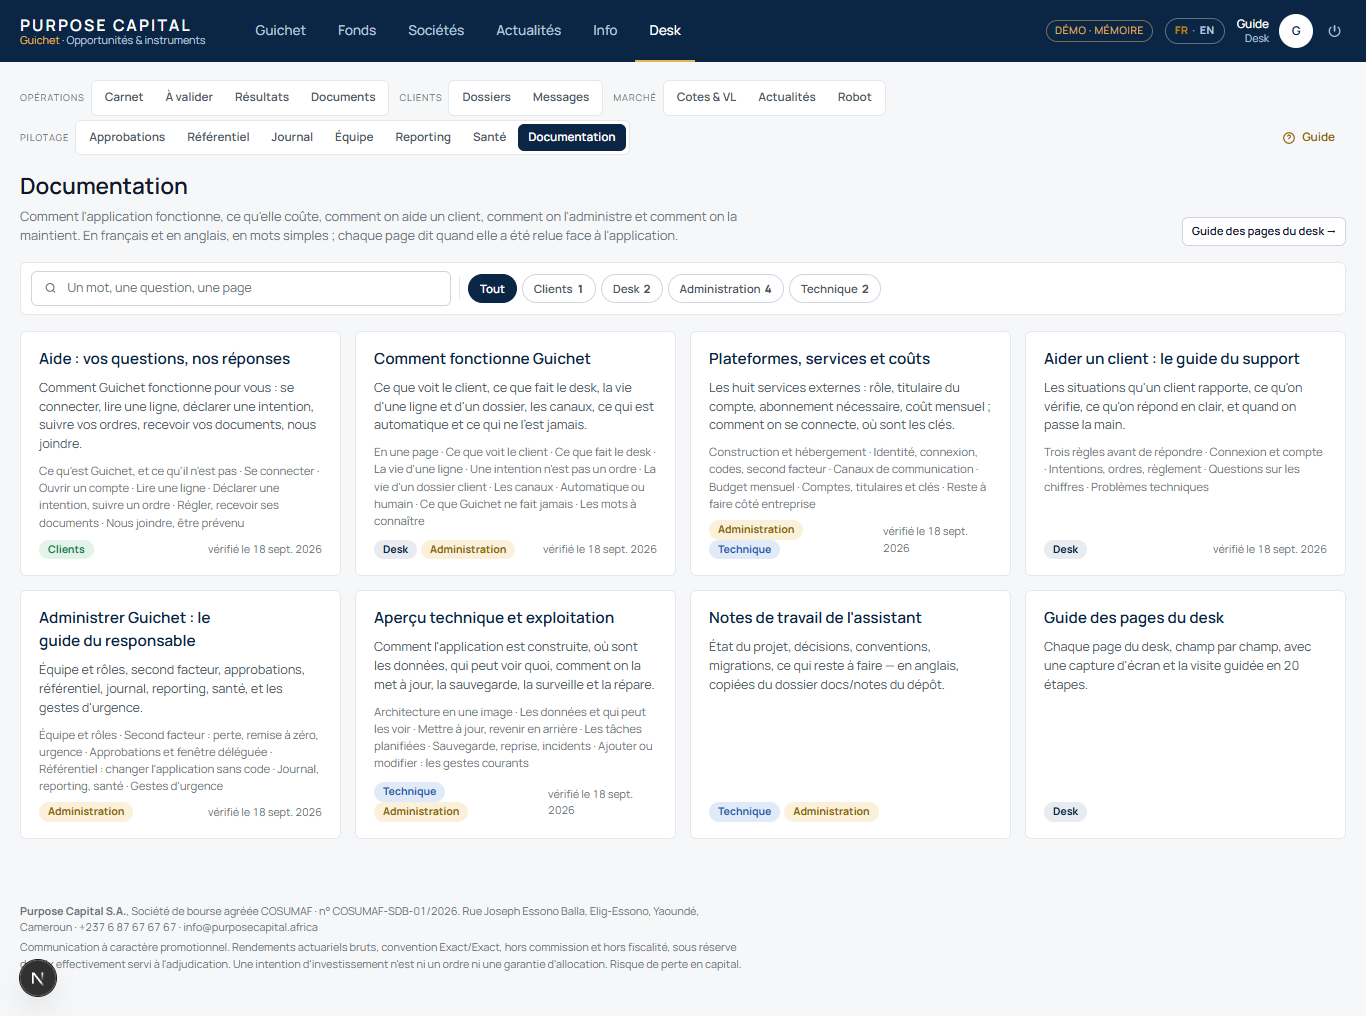
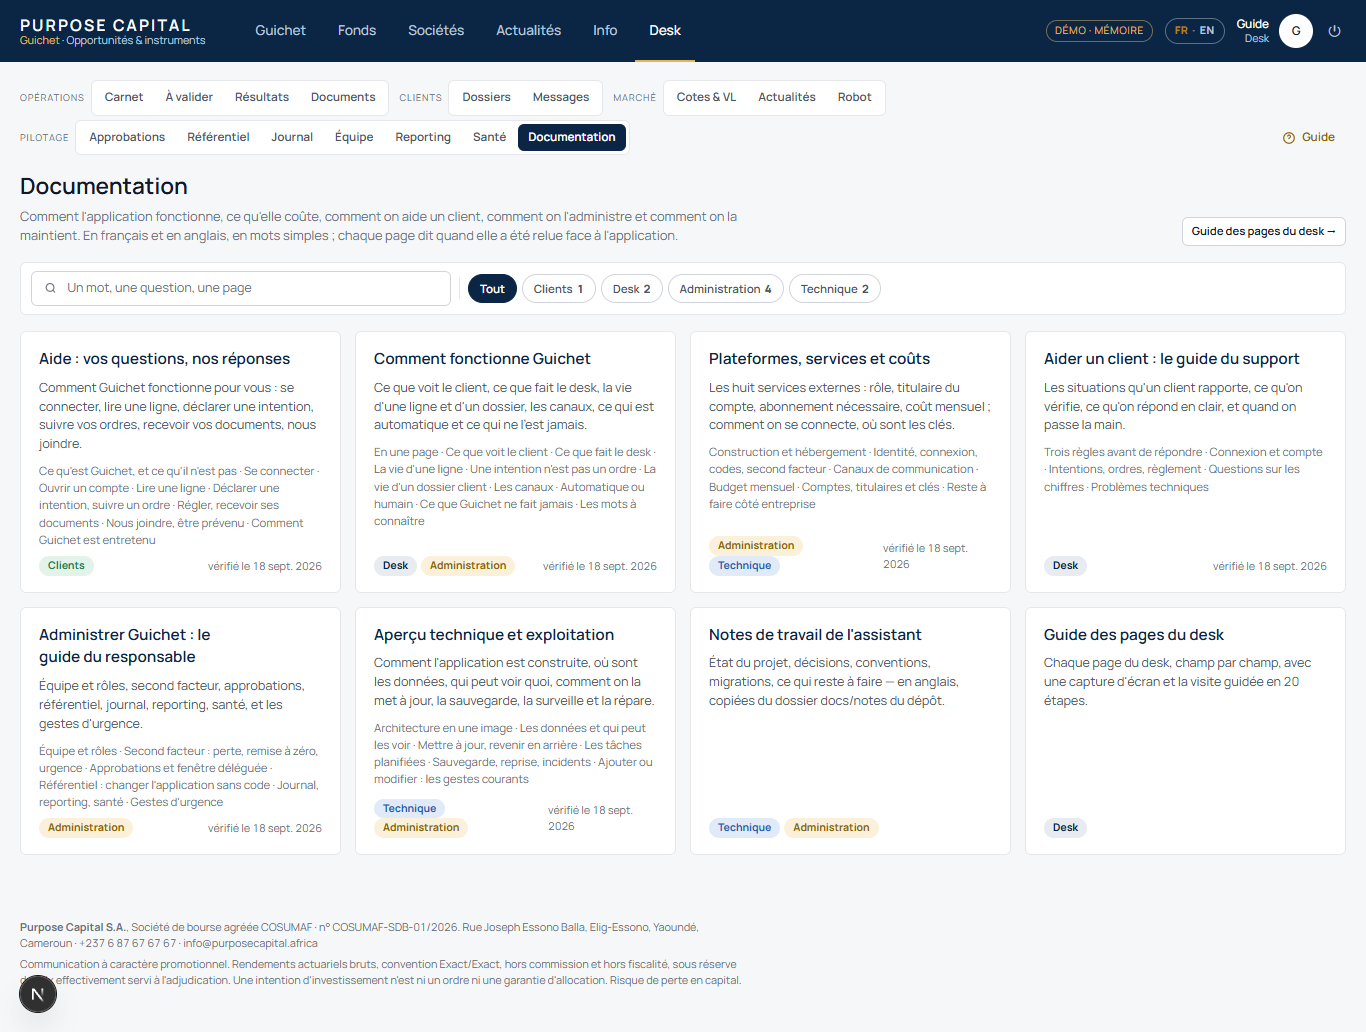
Aide client : « Comment Guichet est entretenu »
Un chapitre en clair — qui écrit, d'où viennent les cours, la fréquence des mises à jour, les pannes, les erreurs signalées, les données — sans nom de service ni procédure (le test de séparation le garantit) ; quatrième repère du parcours de l'aide ; captures régénérées.

diff --git a/src/data/docs/aide.ts b/src/data/docs/aide.ts
@@ -128,5 +128,24 @@ export const AIDE: DocPage = {
         },
       ],
     },
+    {
+      id: "entretien",
+      title: l("Comment Guichet est entretenu", "How Guichet is looked after"),
+      blocks: [
+        { type: "lead", text: l("Guichet est mis à jour souvent, par petites touches, sans interruption de service. Ce que vous voyez est relu par une personne avant d'être publié ; ce qui tourne tout seul est surveillé chaque matin.", "Guichet is updated often, in small steps, with no service interruption. What you see is read by a person before it is published; what runs by itself is checked every morning.") },
+        {
+          type: "table",
+          head: [l("Question", "Question"), l("Réponse", "Answer")],
+          rows: [
+            [l("Qui écrit ce que je lis ?", "Who writes what I read?"), l("Chaque ligne, chaque actualité et chaque chiffre publié passe par un membre du desk qui le vérifie et le signe ; l'explication des termes et les leçons sont tenues à jour par la même équipe. Rien n'est publié par une machine seule.", "Every line, every news item and every published figure goes through a desk member who checks and signs it; the explanation of terms and the lessons are kept up to date by the same team. Nothing is published by a machine on its own.")],
+            [l("D'où viennent les cours et les valeurs liquidatives ?", "Where do prices and net asset values come from?"), l("Du bulletin officiel de la BVMAC, lu chaque soir de bourse, et des sociétés de gestion pour les fonds. Un cours saisi à la main est signalé comme tel sur la fiche.", "From the BVMAC official bulletin, read every trading evening, and from the fund managers for funds. A manually entered price is flagged as such on the page.")],
+            [l("À quelle fréquence l'application change-t-elle ?", "How often does the app change?"), l("Plusieurs fois par semaine, par petites améliorations ; votre adresse, vos identifiants et vos documents ne changent pas. Quand un écran change, son guide et son aide changent avec lui.", "Several times a week, in small improvements; your address, your sign-in and your documents do not change. When a screen changes, its guide and its help change with it.")],
+            [l("Que se passe-t-il en cas de panne ?", "What happens if something breaks?"), l("L'équipe est prévenue automatiquement et revient à la version précédente en quelques minutes. Vos intentions, ordres et documents sont conservés et sauvegardés chaque jour ; aucun paiement ne passe par l'application, donc aucun paiement ne peut être perdu.", "The team is alerted automatically and returns to the previous version within minutes. Your intentions, orders and documents are kept and backed up every day; no payment goes through the app, so no payment can be lost.")],
+            [l("Un chiffre ou un texte vous semble faux ?", "A figure or a text looks wrong?"), l("Dites-le-nous sur WhatsApp ou par e-mail, en indiquant la page. Une erreur signalée est corrigée à la source, pour tout le monde, et la correction est tracée.", "Tell us on WhatsApp or by e-mail, naming the page. A reported error is fixed at the source, for everyone, and the fix is traced.")],
+            [l("Mes données sont-elles en sécurité ?", "Is my data safe?"), l("Vos données sont stockées chiffrées, en Europe, chez un hébergeur spécialisé ; chacun ne voit que ce qui le concerne ; le desk y accède avec un second facteur. Elles ne sont ni vendues ni partagées hors du cadre réglementaire.", "Your data is stored encrypted, in Europe, with a specialised host; everyone sees only what concerns them; the desk reaches it with a second factor. It is neither sold nor shared beyond the regulatory framework.")],
+          ],
+        },
+      ],
+    },
   ],
 };

diff --git a/src/i18n/en-docs.ts b/src/i18n/en-docs.ts
@@ -16,6 +16,8 @@ export const EN_DOCS: Record<string, string> = {
   "Rechercher dans la documentation": "Search the documentation",
   "toutes": "all",
   "Aide": "Help",
+  "Comment Guichet est entretenu": "How Guichet is looked after",
+  "Qui écrit ce que vous lisez, d'où viennent les cours, ce qui se passe en cas de panne, où sont vos données : en clair, sans jargon. Un doute sur un chiffre ? Dites-le-nous, il est corrigé pour tout le monde.": "Who writes what you read, where prices come from, what happens if something breaks, where your data is: plainly, without jargon. A doubt about a figure? Tell us, it is fixed for everyone.",
   "Notes de travail de l'assistant, lues depuis docs/notes": "The assistant's working notes, read from docs/notes",
   "Les notes de travail": "The working notes",
   "Ce que l'assistant garde entre ses sessions : l'état du projet, les décisions et leur raison, les conventions, les migrations appliquées, ce qui reste à faire. En anglais, lues depuis le dépôt (docs/notes) à chaque visite : un push les met à jour. Pour le quotidien, les autres pages ; pour comprendre pourquoi, celle-ci.": "What the assistant keeps between sessions: project state, decisions and their reasons, conventions, applied migrations, what is left. In English, read from the repository (docs/notes) at each visit: a push updates them. For the daily work, the other pages; to understand why, this one.",

diff --git a/src/app/info/aide/page.tsx b/src/app/info/aide/page.tsx
@@ -51,6 +51,7 @@ export default async function AidePage() {
             { target: "aide-page", title: t("Des réponses, pas des procédures"), text: t("Chaque chapitre répond aux questions que vous nous posez le plus : se connecter, ouvrir un compte, lire une ligne, déclarer une intention, régler, recevoir vos documents, nous joindre. Tout est écrit pour vous, en clair.") },
             { target: "aide-nav", title: t("Trouver vite"), text: t("À gauche, les chapitres de cette page ; en dessous, le glossaire, les leçons, le simulateur et le comparateur. La recherche de la page Info trouve aussi chaque question de cette aide.") },
             { target: "aide-contact", title: t("Quand ça ne suffit pas"), text: t("Le bouton « Information » de chaque fiche ouvre WhatsApp ; un robot répond aux questions simples, un conseiller prend le relais. Pour une réclamation, écrivez-nous avec la référence concernée.") },
+            { target: "aide-entretien", title: t("Comment Guichet est entretenu"), text: t("Qui écrit ce que vous lisez, d'où viennent les cours, ce qui se passe en cas de panne, où sont vos données : en clair, sans jargon. Un doute sur un chiffre ? Dites-le-nous, il est corrigé pour tout le monde.") },
           ]}
         />
       </article>

diff --git a/src/components/docs/DocBlocks.tsx b/src/components/docs/DocBlocks.tsx
@@ -79,7 +79,7 @@ export function DocBlocks({ chapters, lang }: { chapters: DocChapter[]; lang: "f
   return (
     <>
       {chapters.map((c) => (
-        <section key={c.id} data-coach={c.id === "contact" ? "aide-contact" : undefined}>
+        <section key={c.id} data-coach={c.id === "contact" ? "aide-contact" : c.id === "entretien" ? "aide-entretien" : undefined}>
           <h2 id={c.id}>{L(c.title)}</h2>
           {c.blocks.map(block)}
         </section>
